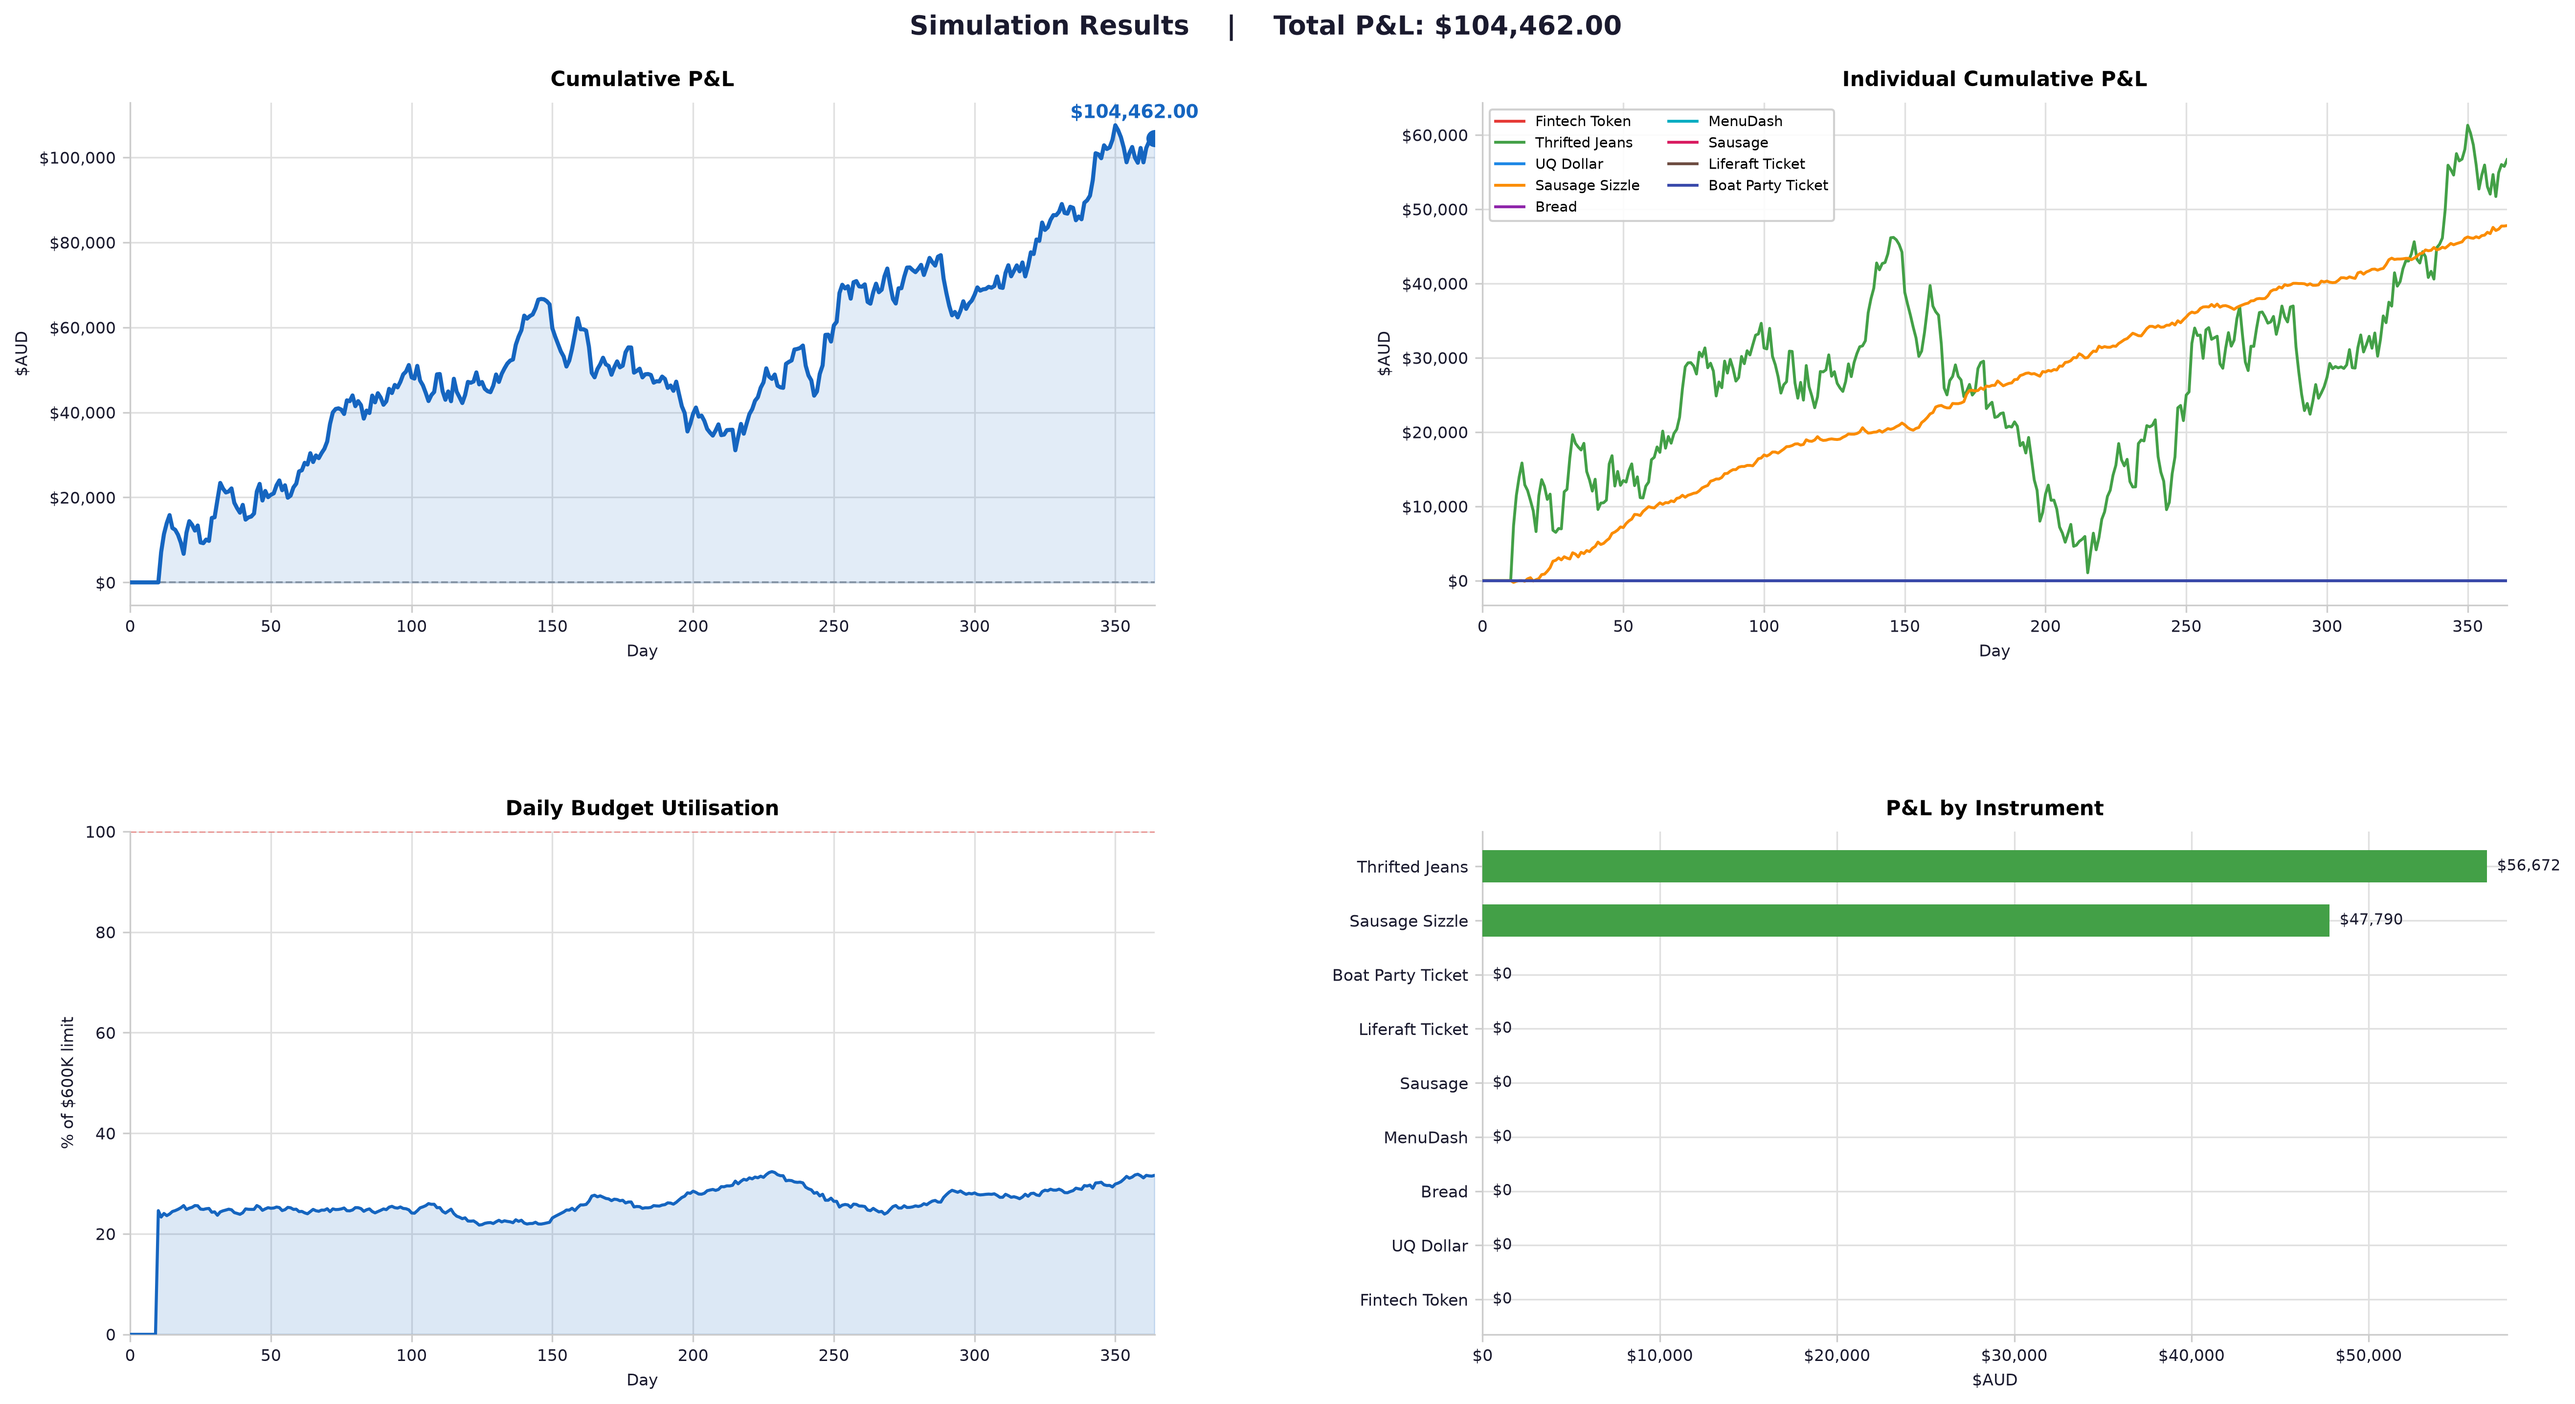
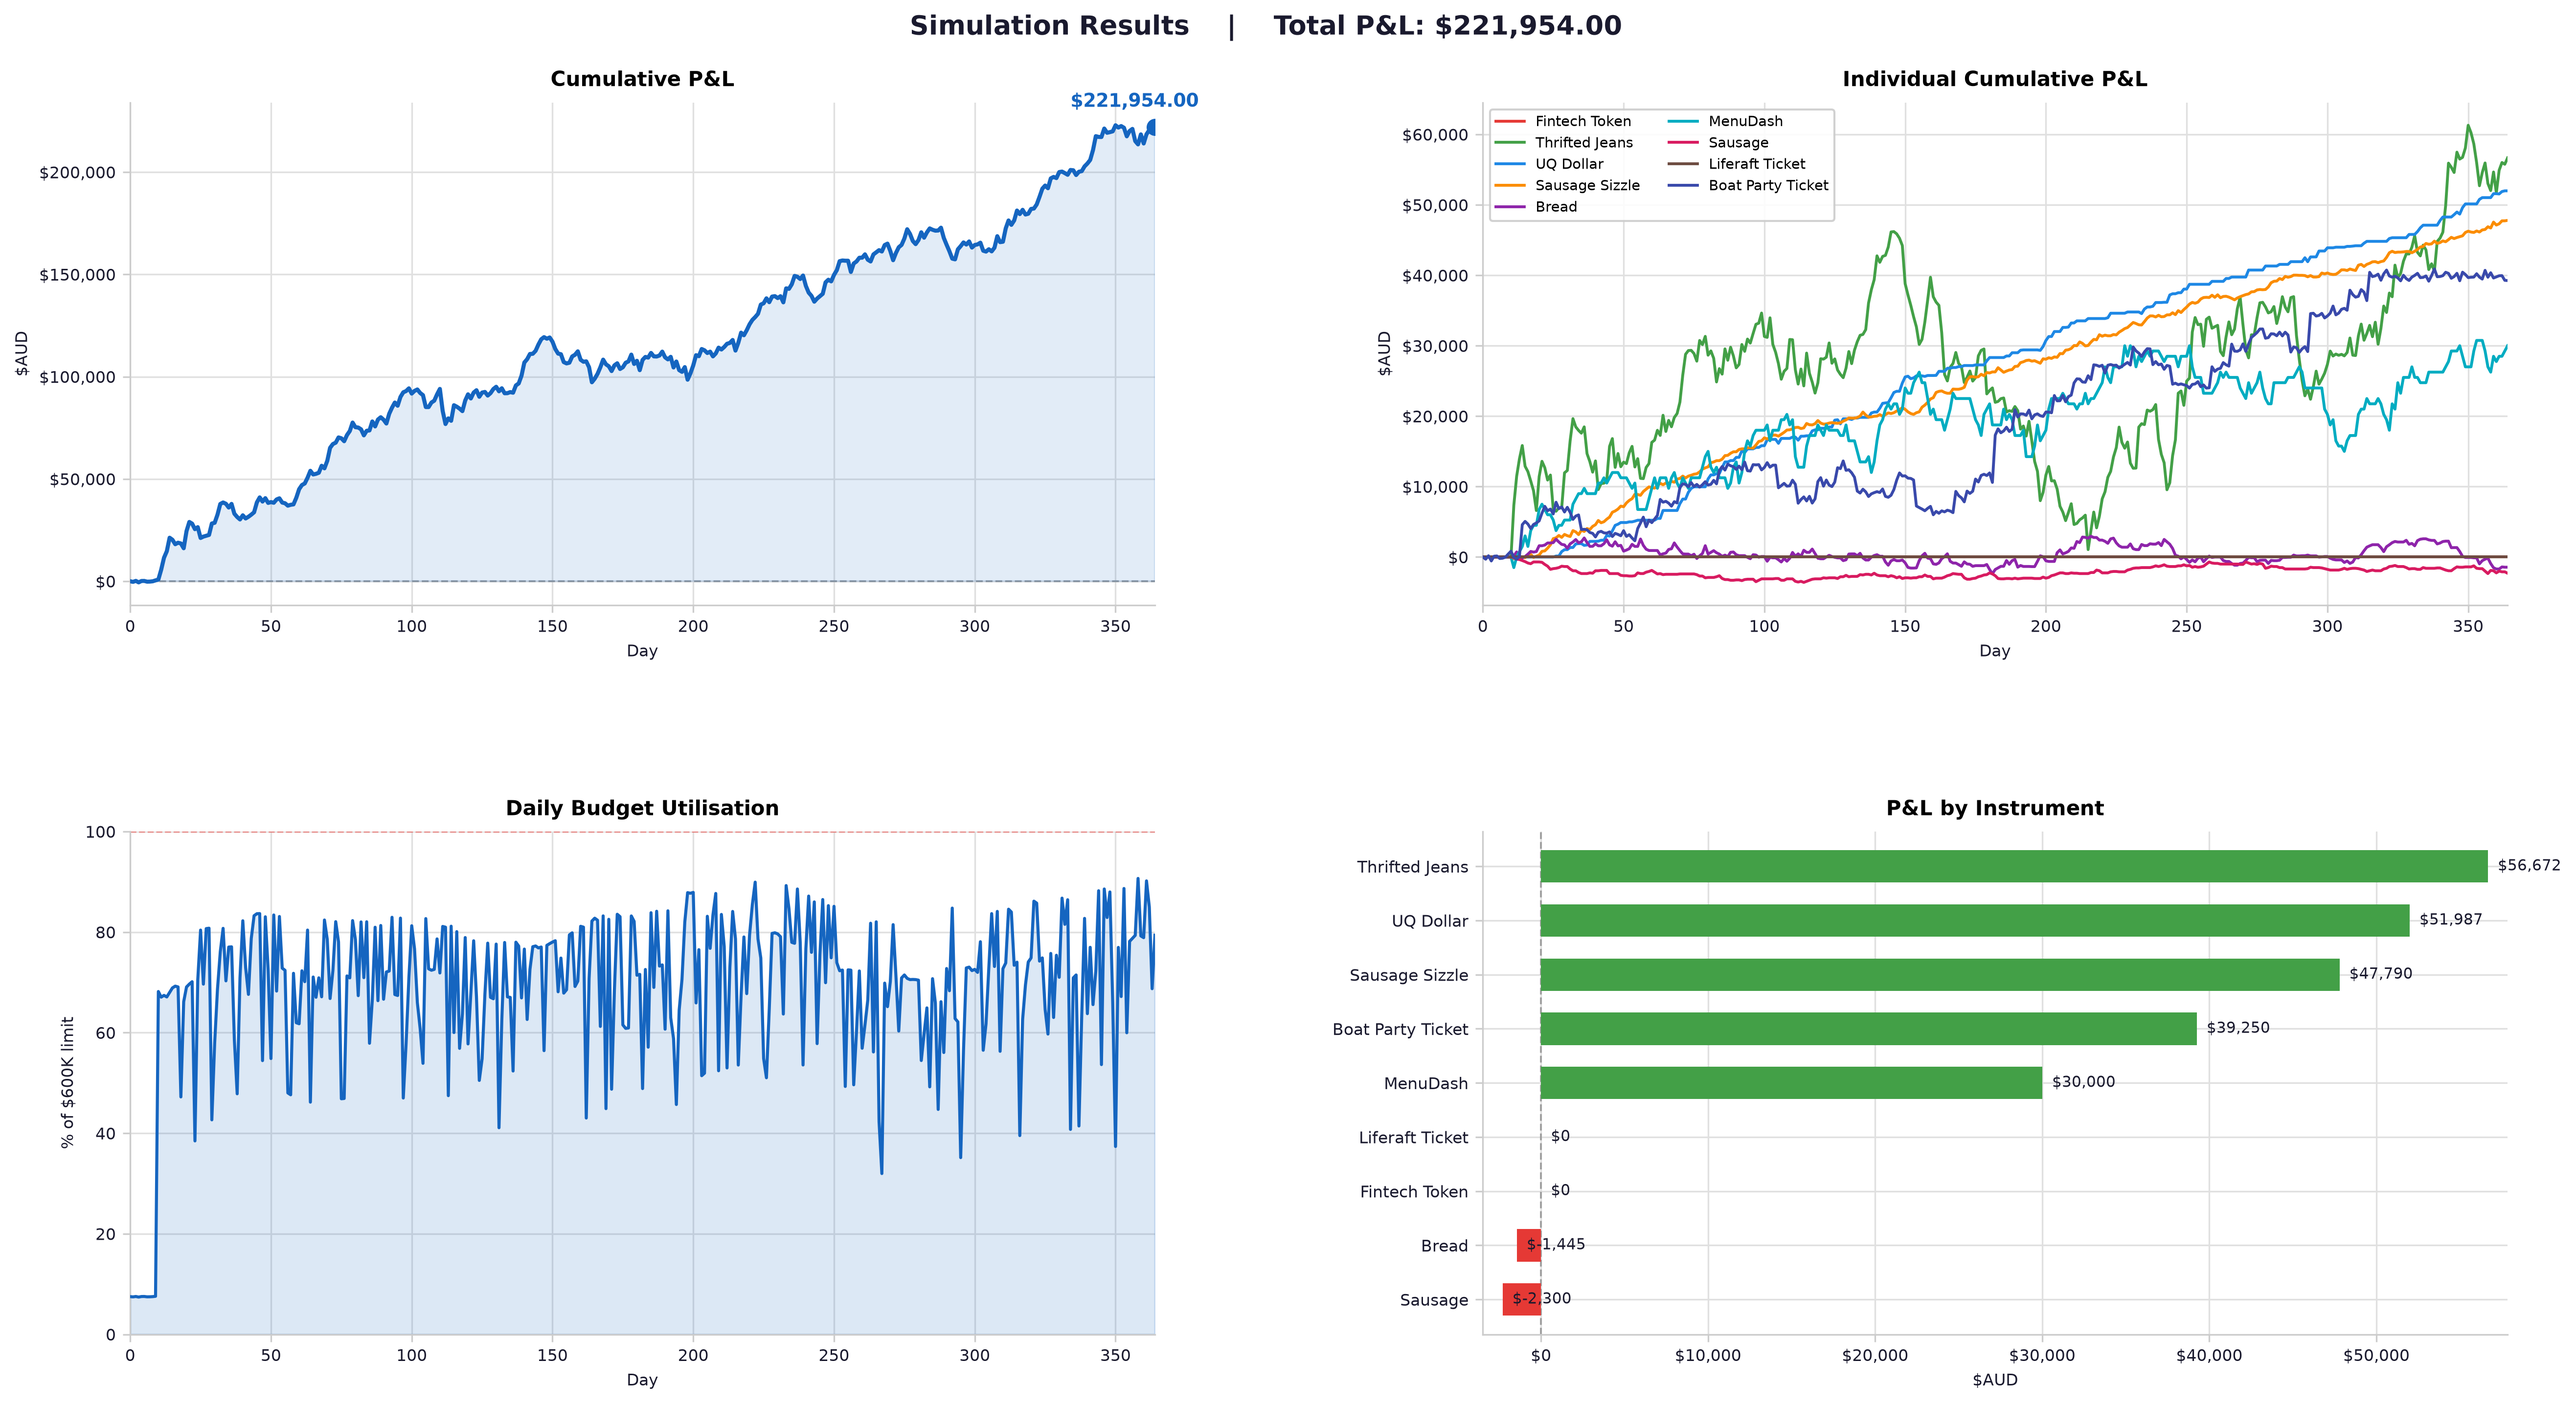
Strategies

diff --git a/trader_interface/algorithm.py b/trader_interface/algorithm.py
@@ -1,6 +1,9 @@
 import numpy as np
 
-# Example Change
+# Constants
+SIZZLE_SAFETY_MARGIN = 0.002 # 1% Increase
+UQ_DOLLAR_WAIT = 20
+UQ_SAFETY_MARGIN = 0.002
 
 # Custom trading Algorithm
 class Algorithm():
@@ -44,6 +47,15 @@ class Algorithm():
         # Display the prices of instruments I want to trade
         for ins in trade_instruments:
             print(f"{ins}: ${self.get_current_price(ins)}")
+
+############################################################################################
+        # UQ Dollar Trading
+        if self.day > UQ_DOLLAR_WAIT:
+            UQ_dollar_avg = 100
+            if self.data["UQ Dollar"][-1]/UQ_dollar_avg > 1 + UQ_SAFETY_MARGIN:
+                desiredPositions["UQ Dollar"] = -positionLimits["UQ Dollar"]
+            elif self.data["UQ Dollar"][-1]/UQ_dollar_avg < 1 - UQ_SAFETY_MARGIN:
+                desiredPositions["UQ Dollar"] = positionLimits["UQ Dollar"]
         
         # If its 10th day or more, then trade
         if self.day >= 10:
@@ -56,15 +68,15 @@ class Algorithm():
                 else: # else, short
                     desiredPositions[ins] = -positionLimits[ins]
 
-            # Thrifted Jeans Trading
+            # Thrifted Jeans Trading (Swing Trading)
             todays_price = self.data["Thrifted Jeans"][-1]
             yesterdays_price = self.data["Thrifted Jeans"][-2]
             if yesterdays_price > todays_price:
                 desiredPositions["Thrifted Jeans"] = positionLimits["Thrifted Jeans"]
-            else: # else, short
+            elif yesterdays_price < todays_price: # else, short
                 desiredPositions["Thrifted Jeans"] = -positionLimits["Thrifted Jeans"]
 
-            # Sausage Sizzle Trading
+            # Sausage Sizzle Trading (Index Trading)
             print(f"{"Sausage Sizzle"}: ${self.get_current_price("Sausage Sizzle")}")
 
             bread_change = self.data["Bread"][-1] / self.data["Bread"][-2]
@@ -78,9 +90,34 @@ class Algorithm():
                 desiredPositions["Sausage Sizzle"] = -positionLimits["Sausage Sizzle"]
             else:
                 desiredPositions["Sausage Sizzle"] = positionLimits["Sausage Sizzle"]
-            # Sausage Sizzle Component Trading (i.e. Bread, Sausage, MenuDash)
-            
 
+            # Sausage Sizzle Component Trading (i.e. Bread, Sausage, MenuDash)
+            if bread_change > sausage_sizzle_change + SIZZLE_SAFETY_MARGIN:
+                desiredPositions["Bread"] = -positionLimits["Bread"]
+            elif bread_change < sausage_sizzle_change - SIZZLE_SAFETY_MARGIN:
+                desiredPositions["Bread"] = positionLimits["Bread"]
+
+            if sausage_change > sausage_sizzle_change + SIZZLE_SAFETY_MARGIN:
+                desiredPositions["Sausage"] = -positionLimits["Sausage"]
+            elif sausage_change < sausage_sizzle_change - SIZZLE_SAFETY_MARGIN:
+                desiredPositions["Sausage"] = positionLimits["Sausage"]
+
+            if menu_dash_change > sausage_sizzle_change + SIZZLE_SAFETY_MARGIN:
+                desiredPositions["MenuDash"] = -positionLimits["MenuDash"]
+            elif menu_dash_change < sausage_sizzle_change - SIZZLE_SAFETY_MARGIN:
+                desiredPositions["MenuDash"] = positionLimits["MenuDash"]
+
+        # Boat Party Ticket Trading
+        if self.day % 365 <= 30:
+            desiredPositions["Boat Party Ticket"] = positionLimits["Boat Party Ticket"]
+        elif 30 < self.day % 365 <= 130:
+            desiredPositions["Boat Party Ticket"] = -positionLimits["Boat Party Ticket"]
+        elif 130 < self.day % 365 <= 190:
+            desiredPositions["Boat Party Ticket"] = positionLimits["Boat Party Ticket"]
+        elif 190 < self.day % 365 <= 300:
+            desiredPositions["Boat Party Ticket"] = -positionLimits["Boat Party Ticket"]
+        elif 300 < self.day % 365:
+            desiredPositions["Boat Party Ticket"] = positionLimits["Boat Party Ticket"]
                                 
                     
         # Display the end of trading day
